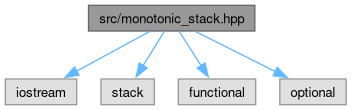
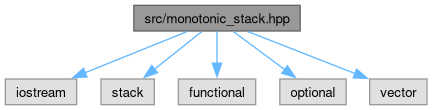
deploy: ecc5c27064b4ea4ee6e168c39b0f48cb65516475

Changed region(s): [[0.0, 0.2727, 1.0, 0.9818], [0.25, 0.0273, 0.75, 0.3], [0.625, 0.5455, 0.6875, 0.7091]]

diff --git a/monotonic__stack_8hpp_source.html b/monotonic__stack_8hpp_source.html
@@ -90,90 +90,100 @@ $(function() { codefold.init(0); });
 <div class="line"><a id="l00005" name="l00005"></a><span class="lineno">    5</span><span class="preprocessor">#include &lt;stack&gt;</span></div>
 <div class="line"><a id="l00006" name="l00006"></a><span class="lineno">    6</span><span class="preprocessor">#include &lt;functional&gt;</span></div>
 <div class="line"><a id="l00007" name="l00007"></a><span class="lineno">    7</span><span class="preprocessor">#include &lt;optional&gt;</span></div>
-<div class="line"><a id="l00008" name="l00008"></a><span class="lineno">    8</span> </div>
-<div class="line"><a id="l00009" name="l00009"></a><span class="lineno">    9</span><span class="keyword">namespace </span><a class="code hl_namespace" href="namespacehsc__snippets.html">hsc_snippets</a></div>
-<div class="line"><a id="l00010" name="l00010"></a><span class="lineno">   10</span>{</div>
-<div class="line"><a id="l00016" name="l00016"></a><span class="lineno">   16</span>    <span class="keyword">template</span> &lt;<span class="keyword">typename</span> T, <span class="keyword">typename</span> Comparator&gt;</div>
+<div class="line"><a id="l00008" name="l00008"></a><span class="lineno">    8</span><span class="preprocessor">#include &lt;vector&gt;</span></div>
+<div class="line"><a id="l00009" name="l00009"></a><span class="lineno">    9</span> </div>
+<div class="line"><a id="l00010" name="l00010"></a><span class="lineno">   10</span><span class="keyword">namespace </span><a class="code hl_namespace" href="namespacehsc__snippets.html">hsc_snippets</a> {</div>
+<div class="line"><a id="l00016" name="l00016"></a><span class="lineno">   16</span>    <span class="keyword">template</span>&lt;<span class="keyword">typename</span> T, <span class="keyword">typename</span> Comparator&gt;</div>
 <div class="foldopen" id="foldopen00017" data-start="{" data-end="};">
-<div class="line"><a id="l00017" name="l00017"></a><span class="lineno"><a class="line" href="classhsc__snippets_1_1MonotonicStack.html">   17</a></span>    <span class="keyword">class </span><a class="code hl_class" href="classhsc__snippets_1_1MonotonicStack.html">MonotonicStack</a></div>
-<div class="line"><a id="l00018" name="l00018"></a><span class="lineno">   18</span>    {</div>
-<div class="line"><a id="l00019" name="l00019"></a><span class="lineno">   19</span>    <span class="keyword">private</span>:</div>
-<div class="line"><a id="l00020" name="l00020"></a><span class="lineno">   20</span>        std::stack&lt;T&gt; s;</div>
-<div class="line"><a id="l00021" name="l00021"></a><span class="lineno">   21</span>        Comparator comp;</div>
-<div class="line"><a id="l00022" name="l00022"></a><span class="lineno">   22</span> </div>
-<div class="line"><a id="l00023" name="l00023"></a><span class="lineno">   23</span>    <span class="keyword">public</span>:</div>
-<div class="foldopen" id="foldopen00029" data-start="{" data-end="}">
-<div class="line"><a id="l00029" name="l00029"></a><span class="lineno"><a class="line" href="classhsc__snippets_1_1MonotonicStack.html#a1cfcd03d08115247a34c2f1aab9fa20f">   29</a></span>        std::optional&lt;T&gt; <a class="code hl_function" href="classhsc__snippets_1_1MonotonicStack.html#a1cfcd03d08115247a34c2f1aab9fa20f">push</a>(<span class="keyword">const</span> T &amp;value)</div>
-<div class="line"><a id="l00030" name="l00030"></a><span class="lineno">   30</span>        {</div>
-<div class="line"><a id="l00031" name="l00031"></a><span class="lineno">   31</span>            <span class="keywordflow">while</span> (!s.empty() &amp;&amp; comp(s.top(), value))</div>
-<div class="line"><a id="l00032" name="l00032"></a><span class="lineno">   32</span>            {</div>
-<div class="line"><a id="l00033" name="l00033"></a><span class="lineno">   33</span>                s.pop();</div>
-<div class="line"><a id="l00034" name="l00034"></a><span class="lineno">   34</span>            }</div>
-<div class="line"><a id="l00035" name="l00035"></a><span class="lineno">   35</span>            std::optional&lt;T&gt; ans;</div>
-<div class="line"><a id="l00036" name="l00036"></a><span class="lineno">   36</span>            <span class="keywordflow">if</span> (s.empty())</div>
-<div class="line"><a id="l00037" name="l00037"></a><span class="lineno">   37</span>            {</div>
-<div class="line"><a id="l00038" name="l00038"></a><span class="lineno">   38</span>                ans = {};</div>
-<div class="line"><a id="l00039" name="l00039"></a><span class="lineno">   39</span>            }</div>
-<div class="line"><a id="l00040" name="l00040"></a><span class="lineno">   40</span>            <span class="keywordflow">else</span></div>
-<div class="line"><a id="l00041" name="l00041"></a><span class="lineno">   41</span>            {</div>
-<div class="line"><a id="l00042" name="l00042"></a><span class="lineno">   42</span>                ans = s.top();</div>
-<div class="line"><a id="l00043" name="l00043"></a><span class="lineno">   43</span>            }</div>
-<div class="line"><a id="l00044" name="l00044"></a><span class="lineno">   44</span>            s.push(value);</div>
-<div class="line"><a id="l00045" name="l00045"></a><span class="lineno">   45</span>            <span class="keywordflow">return</span> ans;</div>
-<div class="line"><a id="l00046" name="l00046"></a><span class="lineno">   46</span>        }</div>
+<div class="line"><a id="l00017" name="l00017"></a><span class="lineno"><a class="line" href="classhsc__snippets_1_1MonotonicStack.html">   17</a></span>    <span class="keyword">class </span><a class="code hl_class" href="classhsc__snippets_1_1MonotonicStack.html">MonotonicStack</a> {</div>
+<div class="line"><a id="l00018" name="l00018"></a><span class="lineno">   18</span>    <span class="keyword">private</span>:</div>
+<div class="line"><a id="l00019" name="l00019"></a><span class="lineno">   19</span>        std::stack&lt;T&gt; s;</div>
+<div class="line"><a id="l00020" name="l00020"></a><span class="lineno">   20</span>        Comparator comp;</div>
+<div class="line"><a id="l00021" name="l00021"></a><span class="lineno">   21</span> </div>
+<div class="line"><a id="l00022" name="l00022"></a><span class="lineno">   22</span>    <span class="keyword">public</span>:</div>
+<div class="foldopen" id="foldopen00028" data-start="{" data-end="}">
+<div class="line"><a id="l00028" name="l00028"></a><span class="lineno"><a class="line" href="classhsc__snippets_1_1MonotonicStack.html#a1cfcd03d08115247a34c2f1aab9fa20f">   28</a></span>        std::optional&lt;T&gt; <a class="code hl_function" href="classhsc__snippets_1_1MonotonicStack.html#a1cfcd03d08115247a34c2f1aab9fa20f">push</a>(<span class="keyword">const</span> T &amp;value) {</div>
+<div class="line"><a id="l00029" name="l00029"></a><span class="lineno">   29</span>            <span class="keywordflow">while</span> (!s.empty() &amp;&amp; comp(s.top(), value)) {</div>
+<div class="line"><a id="l00030" name="l00030"></a><span class="lineno">   30</span>                s.pop();</div>
+<div class="line"><a id="l00031" name="l00031"></a><span class="lineno">   31</span>            }</div>
+<div class="line"><a id="l00032" name="l00032"></a><span class="lineno">   32</span>            std::optional&lt;T&gt; ans;</div>
+<div class="line"><a id="l00033" name="l00033"></a><span class="lineno">   33</span>            <span class="keywordflow">if</span> (s.empty()) {</div>
+<div class="line"><a id="l00034" name="l00034"></a><span class="lineno">   34</span>                ans = {};</div>
+<div class="line"><a id="l00035" name="l00035"></a><span class="lineno">   35</span>            } <span class="keywordflow">else</span> {</div>
+<div class="line"><a id="l00036" name="l00036"></a><span class="lineno">   36</span>                ans = s.top();</div>
+<div class="line"><a id="l00037" name="l00037"></a><span class="lineno">   37</span>            }</div>
+<div class="line"><a id="l00038" name="l00038"></a><span class="lineno">   38</span>            s.push(value);</div>
+<div class="line"><a id="l00039" name="l00039"></a><span class="lineno">   39</span>            <span class="keywordflow">return</span> ans;</div>
+<div class="line"><a id="l00040" name="l00040"></a><span class="lineno">   40</span>        }</div>
 </div>
-<div class="foldopen" id="foldopen00051" data-start="{" data-end="}">
-<div class="line"><a id="l00051" name="l00051"></a><span class="lineno"><a class="line" href="classhsc__snippets_1_1MonotonicStack.html#a89a08fe8021d1c07f545efa956e411a8">   51</a></span>        <span class="keyword">const</span> T &amp;<a class="code hl_function" href="classhsc__snippets_1_1MonotonicStack.html#a89a08fe8021d1c07f545efa956e411a8">top</a>()<span class="keyword"> const</span></div>
-<div class="line"><a id="l00052" name="l00052"></a><span class="lineno">   52</span><span class="keyword">        </span>{</div>
-<div class="line"><a id="l00053" name="l00053"></a><span class="lineno">   53</span>            <span class="keywordflow">return</span> s.top();</div>
-<div class="line"><a id="l00054" name="l00054"></a><span class="lineno">   54</span>        }</div>
+<div class="line"><a id="l00041" name="l00041"></a><span class="lineno">   41</span> </div>
+<div class="foldopen" id="foldopen00046" data-start="{" data-end="}">
+<div class="line"><a id="l00046" name="l00046"></a><span class="lineno"><a class="line" href="classhsc__snippets_1_1MonotonicStack.html#a89a08fe8021d1c07f545efa956e411a8">   46</a></span>        <span class="keyword">const</span> T &amp;<a class="code hl_function" href="classhsc__snippets_1_1MonotonicStack.html#a89a08fe8021d1c07f545efa956e411a8">top</a>()<span class="keyword"> const </span>{</div>
+<div class="line"><a id="l00047" name="l00047"></a><span class="lineno">   47</span>            <span class="keywordflow">return</span> s.top();</div>
+<div class="line"><a id="l00048" name="l00048"></a><span class="lineno">   48</span>        }</div>
 </div>
-<div class="foldopen" id="foldopen00059" data-start="{" data-end="}">
-<div class="line"><a id="l00059" name="l00059"></a><span class="lineno"><a class="line" href="classhsc__snippets_1_1MonotonicStack.html#a286b87ba4ef3864f3f0840233b8dbaf3">   59</a></span>        <span class="keywordtype">bool</span> <a class="code hl_function" href="classhsc__snippets_1_1MonotonicStack.html#a286b87ba4ef3864f3f0840233b8dbaf3">empty</a>()<span class="keyword"> const</span></div>
-<div class="line"><a id="l00060" name="l00060"></a><span class="lineno">   60</span><span class="keyword">        </span>{</div>
-<div class="line"><a id="l00061" name="l00061"></a><span class="lineno">   61</span>            <span class="keywordflow">return</span> s.empty();</div>
-<div class="line"><a id="l00062" name="l00062"></a><span class="lineno">   62</span>        }</div>
+<div class="line"><a id="l00049" name="l00049"></a><span class="lineno">   49</span> </div>
+<div class="foldopen" id="foldopen00054" data-start="{" data-end="}">
+<div class="line"><a id="l00054" name="l00054"></a><span class="lineno"><a class="line" href="classhsc__snippets_1_1MonotonicStack.html#a286b87ba4ef3864f3f0840233b8dbaf3">   54</a></span>        <span class="keywordtype">bool</span> <a class="code hl_function" href="classhsc__snippets_1_1MonotonicStack.html#a286b87ba4ef3864f3f0840233b8dbaf3">empty</a>()<span class="keyword"> const </span>{</div>
+<div class="line"><a id="l00055" name="l00055"></a><span class="lineno">   55</span>            <span class="keywordflow">return</span> s.empty();</div>
+<div class="line"><a id="l00056" name="l00056"></a><span class="lineno">   56</span>        }</div>
 </div>
-<div class="line"><a id="l00063" name="l00063"></a><span class="lineno">   63</span>    };</div>
+<div class="line"><a id="l00057" name="l00057"></a><span class="lineno">   57</span>    };</div>
 </div>
-<div class="line"><a id="l00064" name="l00064"></a><span class="lineno">   64</span> </div>
-<div class="line"><a id="l00065" name="l00065"></a><span class="lineno">   65</span>    <span class="keyword">template</span> &lt;<span class="keyword">typename</span> T&gt;</div>
-<div class="line"><a id="l00066" name="l00066"></a><span class="lineno"><a class="line" href="namespacehsc__snippets.html#a9cbfd0b02206d45ef53cae53da08bde1">   66</a></span>    <span class="keyword">using </span><a class="code hl_class" href="classhsc__snippets_1_1MonotonicStack.html">MonotonicDecreasingStack</a> = <a class="code hl_class" href="classhsc__snippets_1_1MonotonicStack.html">MonotonicStack&lt;T, std::less_equal&lt;T&gt;</a>&gt;;</div>
-<div class="line"><a id="l00067" name="l00067"></a><span class="lineno">   67</span>    <span class="keyword">template</span> &lt;<span class="keyword">typename</span> T&gt;</div>
-<div class="line"><a id="l00068" name="l00068"></a><span class="lineno"><a class="line" href="namespacehsc__snippets.html#aa38155ad9e921ee6d3cf69b328f69757">   68</a></span>    <span class="keyword">using </span><a class="code hl_class" href="classhsc__snippets_1_1MonotonicStack.html">MonotonicIncreasingStack</a> = <a class="code hl_class" href="classhsc__snippets_1_1MonotonicStack.html">MonotonicStack&lt;T, std::greater_equal&lt;T&gt;</a>&gt;;</div>
-<div class="line"><a id="l00076" name="l00076"></a><span class="lineno">   76</span>    <span class="keyword">template</span> &lt;<span class="keyword">typename</span> T&gt;</div>
-<div class="foldopen" id="foldopen00077" data-start="{" data-end="}">
-<div class="line"><a id="l00077" name="l00077"></a><span class="lineno"><a class="line" href="namespacehsc__snippets.html#a58ccbeb569860677c784f504351db1d8">   77</a></span>    std::vector&lt;T&gt; <a class="code hl_function" href="namespacehsc__snippets.html#a58ccbeb569860677c784f504351db1d8">nextGreaterElement</a>(<span class="keyword">const</span> std::vector&lt;T&gt; &amp;nums, std::function&lt;T()&gt; no_greater)</div>
-<div class="line"><a id="l00078" name="l00078"></a><span class="lineno">   78</span>    {</div>
-<div class="line"><a id="l00079" name="l00079"></a><span class="lineno">   79</span>        std::vector&lt;T&gt; result{};</div>
-<div class="line"><a id="l00080" name="l00080"></a><span class="lineno">   80</span>        result.reserve(nums.size());</div>
-<div class="line"><a id="l00081" name="l00081"></a><span class="lineno">   81</span>        <a class="code hl_class" href="classhsc__snippets_1_1MonotonicStack.html">MonotonicDecreasingStack&lt;T&gt;</a> decreasingStack;</div>
-<div class="line"><a id="l00082" name="l00082"></a><span class="lineno">   82</span>        <span class="keywordflow">for</span> (<span class="keyword">auto</span> num : nums)</div>
-<div class="line"><a id="l00083" name="l00083"></a><span class="lineno">   83</span>        {</div>
-<div class="line"><a id="l00084" name="l00084"></a><span class="lineno">   84</span>            <span class="keyword">auto</span> tmp = decreasingStack.<a class="code hl_function" href="classhsc__snippets_1_1MonotonicStack.html#a1cfcd03d08115247a34c2f1aab9fa20f">push</a>(num);</div>
-<div class="line"><a id="l00085" name="l00085"></a><span class="lineno">   85</span>            <span class="keywordflow">if</span> (!tmp.has_value())</div>
-<div class="line"><a id="l00086" name="l00086"></a><span class="lineno">   86</span>            {</div>
-<div class="line"><a id="l00087" name="l00087"></a><span class="lineno">   87</span>                result.push_back(no_greater());</div>
-<div class="line"><a id="l00088" name="l00088"></a><span class="lineno">   88</span>            }</div>
-<div class="line"><a id="l00089" name="l00089"></a><span class="lineno">   89</span>            <span class="keywordflow">else</span></div>
-<div class="line"><a id="l00090" name="l00090"></a><span class="lineno">   90</span>            {</div>
-<div class="line"><a id="l00091" name="l00091"></a><span class="lineno">   91</span>                result.push_back(tmp.value());</div>
-<div class="line"><a id="l00092" name="l00092"></a><span class="lineno">   92</span>            }</div>
-<div class="line"><a id="l00093" name="l00093"></a><span class="lineno">   93</span>        }</div>
-<div class="line"><a id="l00094" name="l00094"></a><span class="lineno">   94</span> </div>
-<div class="line"><a id="l00095" name="l00095"></a><span class="lineno">   95</span>        <span class="keywordflow">return</span> result;</div>
-<div class="line"><a id="l00096" name="l00096"></a><span class="lineno">   96</span>    }</div>
+<div class="line"><a id="l00058" name="l00058"></a><span class="lineno">   58</span> </div>
+<div class="line"><a id="l00059" name="l00059"></a><span class="lineno">   59</span>    <span class="keyword">template</span>&lt;<span class="keyword">typename</span> T&gt;</div>
+<div class="line"><a id="l00060" name="l00060"></a><span class="lineno"><a class="line" href="namespacehsc__snippets.html#a9cbfd0b02206d45ef53cae53da08bde1">   60</a></span>    <span class="keyword">using </span><a class="code hl_class" href="classhsc__snippets_1_1MonotonicStack.html">MonotonicDecreasingStack</a> = <a class="code hl_class" href="classhsc__snippets_1_1MonotonicStack.html">MonotonicStack&lt;T, std::less_equal&lt;T&gt;</a>&gt;;</div>
+<div class="line"><a id="l00061" name="l00061"></a><span class="lineno">   61</span>    <span class="keyword">template</span>&lt;<span class="keyword">typename</span> T&gt;</div>
+<div class="line"><a id="l00062" name="l00062"></a><span class="lineno"><a class="line" href="namespacehsc__snippets.html#aa38155ad9e921ee6d3cf69b328f69757">   62</a></span>    <span class="keyword">using </span><a class="code hl_class" href="classhsc__snippets_1_1MonotonicStack.html">MonotonicIncreasingStack</a> = <a class="code hl_class" href="classhsc__snippets_1_1MonotonicStack.html">MonotonicStack&lt;T, std::greater_equal&lt;T&gt;</a>&gt;;</div>
+<div class="line"><a id="l00063" name="l00063"></a><span class="lineno">   63</span> </div>
+<div class="line"><a id="l00071" name="l00071"></a><span class="lineno">   71</span>    <span class="keyword">template</span>&lt;<span class="keyword">typename</span> T&gt;</div>
+<div class="foldopen" id="foldopen00072" data-start="{" data-end="}">
+<div class="line"><a id="l00072" name="l00072"></a><span class="lineno"><a class="line" href="namespacehsc__snippets.html#a58ccbeb569860677c784f504351db1d8">   72</a></span>    std::vector&lt;T&gt; <a class="code hl_function" href="namespacehsc__snippets.html#a58ccbeb569860677c784f504351db1d8">nextGreaterElement</a>(<span class="keyword">const</span> std::vector&lt;T&gt; &amp;nums, std::function&lt;T()&gt; no_greater) {</div>
+<div class="line"><a id="l00073" name="l00073"></a><span class="lineno">   73</span>        std::vector&lt;T&gt; result{};</div>
+<div class="line"><a id="l00074" name="l00074"></a><span class="lineno">   74</span>        result.reserve(nums.size());</div>
+<div class="line"><a id="l00075" name="l00075"></a><span class="lineno">   75</span>        <a class="code hl_class" href="classhsc__snippets_1_1MonotonicStack.html">MonotonicDecreasingStack&lt;T&gt;</a> decreasingStack;</div>
+<div class="line"><a id="l00076" name="l00076"></a><span class="lineno">   76</span>        <span class="keywordflow">for</span> (<span class="keyword">auto</span> num: nums) {</div>
+<div class="line"><a id="l00077" name="l00077"></a><span class="lineno">   77</span>            <span class="keyword">auto</span> tmp = decreasingStack.<a class="code hl_function" href="classhsc__snippets_1_1MonotonicStack.html#a1cfcd03d08115247a34c2f1aab9fa20f">push</a>(num);</div>
+<div class="line"><a id="l00078" name="l00078"></a><span class="lineno">   78</span>            <span class="keywordflow">if</span> (!tmp.has_value()) {</div>
+<div class="line"><a id="l00079" name="l00079"></a><span class="lineno">   79</span>                result.push_back(no_greater());</div>
+<div class="line"><a id="l00080" name="l00080"></a><span class="lineno">   80</span>            } <span class="keywordflow">else</span> {</div>
+<div class="line"><a id="l00081" name="l00081"></a><span class="lineno">   81</span>                result.push_back(tmp.value());</div>
+<div class="line"><a id="l00082" name="l00082"></a><span class="lineno">   82</span>            }</div>
+<div class="line"><a id="l00083" name="l00083"></a><span class="lineno">   83</span>        }</div>
+<div class="line"><a id="l00084" name="l00084"></a><span class="lineno">   84</span> </div>
+<div class="line"><a id="l00085" name="l00085"></a><span class="lineno">   85</span>        <span class="keywordflow">return</span> result;</div>
+<div class="line"><a id="l00086" name="l00086"></a><span class="lineno">   86</span>    }</div>
 </div>
-<div class="line"><a id="l00097" name="l00097"></a><span class="lineno">   97</span> </div>
-<div class="line"><a id="l00098" name="l00098"></a><span class="lineno">   98</span>}</div>
-<div class="line"><a id="l00099" name="l00099"></a><span class="lineno">   99</span> </div>
-<div class="line"><a id="l00100" name="l00100"></a><span class="lineno">  100</span><span class="preprocessor">#endif </span><span class="comment">// MONOTONIC_STACK_H</span></div>
-<div class="ttc" id="aclasshsc__snippets_1_1MonotonicStack_html"><div class="ttname"><a href="classhsc__snippets_1_1MonotonicStack.html">hsc_snippets::MonotonicStack</a></div><div class="ttdef"><b>Definition</b> monotonic_stack.hpp:18</div></div>
-<div class="ttc" id="aclasshsc__snippets_1_1MonotonicStack_html_a1cfcd03d08115247a34c2f1aab9fa20f"><div class="ttname"><a href="classhsc__snippets_1_1MonotonicStack.html#a1cfcd03d08115247a34c2f1aab9fa20f">hsc_snippets::MonotonicStack::push</a></div><div class="ttdeci">std::optional&lt; T &gt; push(const T &amp;value)</div><div class="ttdef"><b>Definition</b> monotonic_stack.hpp:29</div></div>
-<div class="ttc" id="aclasshsc__snippets_1_1MonotonicStack_html_a286b87ba4ef3864f3f0840233b8dbaf3"><div class="ttname"><a href="classhsc__snippets_1_1MonotonicStack.html#a286b87ba4ef3864f3f0840233b8dbaf3">hsc_snippets::MonotonicStack::empty</a></div><div class="ttdeci">bool empty() const</div><div class="ttdef"><b>Definition</b> monotonic_stack.hpp:59</div></div>
-<div class="ttc" id="aclasshsc__snippets_1_1MonotonicStack_html_a89a08fe8021d1c07f545efa956e411a8"><div class="ttname"><a href="classhsc__snippets_1_1MonotonicStack.html#a89a08fe8021d1c07f545efa956e411a8">hsc_snippets::MonotonicStack::top</a></div><div class="ttdeci">const T &amp; top() const</div><div class="ttdef"><b>Definition</b> monotonic_stack.hpp:51</div></div>
+<div class="line"><a id="l00087" name="l00087"></a><span class="lineno">   87</span> </div>
+<div class="line"><a id="l00088" name="l00088"></a><span class="lineno">   88</span> </div>
+<div class="foldopen" id="foldopen00097" data-start="{" data-end="}">
+<div class="line"><a id="l00097" name="l00097"></a><span class="lineno"><a class="line" href="namespacehsc__snippets.html#ac9bc199445ac13f4653bf795c24cdf08">   97</a></span>    <span class="keywordtype">int</span> <a class="code hl_function" href="namespacehsc__snippets.html#ac9bc199445ac13f4653bf795c24cdf08">largestRectangleInHistogram</a>(<span class="keyword">const</span> std::vector&lt;int&gt; &amp;heights) {</div>
+<div class="line"><a id="l00098" name="l00098"></a><span class="lineno">   98</span>        std::stack&lt;int&gt; s;</div>
+<div class="line"><a id="l00099" name="l00099"></a><span class="lineno">   99</span>        <span class="keywordtype">int</span> maxArea = 0;</div>
+<div class="line"><a id="l00100" name="l00100"></a><span class="lineno">  100</span>        <span class="keywordtype">int</span> n = <span class="keyword">static_cast&lt;</span><span class="keywordtype">int</span><span class="keyword">&gt;</span>(heights.size());</div>
+<div class="line"><a id="l00101" name="l00101"></a><span class="lineno">  101</span>        <span class="keywordflow">for</span> (<span class="keywordtype">int</span> i = 0; i &lt;= n; i++) {</div>
+<div class="line"><a id="l00102" name="l00102"></a><span class="lineno">  102</span>            <span class="keywordtype">int</span> h = (i == n ? 0 : heights[i]); <span class="comment">// Add a bar of height 0 to flush the stack at the end.</span></div>
+<div class="line"><a id="l00103" name="l00103"></a><span class="lineno">  103</span>            <span class="keywordflow">while</span> (!s.empty() &amp;&amp; h &lt; heights[s.top()]) {</div>
+<div class="line"><a id="l00104" name="l00104"></a><span class="lineno">  104</span>                <span class="keywordtype">int</span> height = heights[s.top()];</div>
+<div class="line"><a id="l00105" name="l00105"></a><span class="lineno">  105</span>                s.pop();</div>
+<div class="line"><a id="l00106" name="l00106"></a><span class="lineno">  106</span>                <span class="keywordtype">int</span> width = s.empty() ? i : i - s.top() - 1; <span class="comment">// Calculate width using the stack&#39;s new top.</span></div>
+<div class="line"><a id="l00107" name="l00107"></a><span class="lineno">  107</span>                maxArea = std::max(maxArea, height * width);</div>
+<div class="line"><a id="l00108" name="l00108"></a><span class="lineno">  108</span>            }</div>
+<div class="line"><a id="l00109" name="l00109"></a><span class="lineno">  109</span>            s.push(i); <span class="comment">// Push the current index onto the stack.</span></div>
+<div class="line"><a id="l00110" name="l00110"></a><span class="lineno">  110</span>        }</div>
+<div class="line"><a id="l00111" name="l00111"></a><span class="lineno">  111</span>        <span class="keywordflow">return</span> maxArea;</div>
+<div class="line"><a id="l00112" name="l00112"></a><span class="lineno">  112</span>    }</div>
+</div>
+<div class="line"><a id="l00113" name="l00113"></a><span class="lineno">  113</span>}</div>
+<div class="line"><a id="l00114" name="l00114"></a><span class="lineno">  114</span> </div>
+<div class="line"><a id="l00115" name="l00115"></a><span class="lineno">  115</span><span class="preprocessor">#endif </span><span class="comment">// MONOTONIC_STACK_H</span></div>
+<div class="ttc" id="aclasshsc__snippets_1_1MonotonicStack_html"><div class="ttname"><a href="classhsc__snippets_1_1MonotonicStack.html">hsc_snippets::MonotonicStack</a></div><div class="ttdef"><b>Definition</b> monotonic_stack.hpp:17</div></div>
+<div class="ttc" id="aclasshsc__snippets_1_1MonotonicStack_html_a1cfcd03d08115247a34c2f1aab9fa20f"><div class="ttname"><a href="classhsc__snippets_1_1MonotonicStack.html#a1cfcd03d08115247a34c2f1aab9fa20f">hsc_snippets::MonotonicStack::push</a></div><div class="ttdeci">std::optional&lt; T &gt; push(const T &amp;value)</div><div class="ttdef"><b>Definition</b> monotonic_stack.hpp:28</div></div>
+<div class="ttc" id="aclasshsc__snippets_1_1MonotonicStack_html_a286b87ba4ef3864f3f0840233b8dbaf3"><div class="ttname"><a href="classhsc__snippets_1_1MonotonicStack.html#a286b87ba4ef3864f3f0840233b8dbaf3">hsc_snippets::MonotonicStack::empty</a></div><div class="ttdeci">bool empty() const</div><div class="ttdef"><b>Definition</b> monotonic_stack.hpp:54</div></div>
+<div class="ttc" id="aclasshsc__snippets_1_1MonotonicStack_html_a89a08fe8021d1c07f545efa956e411a8"><div class="ttname"><a href="classhsc__snippets_1_1MonotonicStack.html#a89a08fe8021d1c07f545efa956e411a8">hsc_snippets::MonotonicStack::top</a></div><div class="ttdeci">const T &amp; top() const</div><div class="ttdef"><b>Definition</b> monotonic_stack.hpp:46</div></div>
 <div class="ttc" id="anamespacehsc__snippets_html"><div class="ttname"><a href="namespacehsc__snippets.html">hsc_snippets</a></div><div class="ttdef"><b>Definition</b> big_integer.hpp:13</div></div>
-<div class="ttc" id="anamespacehsc__snippets_html_a58ccbeb569860677c784f504351db1d8"><div class="ttname"><a href="namespacehsc__snippets.html#a58ccbeb569860677c784f504351db1d8">hsc_snippets::nextGreaterElement</a></div><div class="ttdeci">std::vector&lt; T &gt; nextGreaterElement(const std::vector&lt; T &gt; &amp;nums, std::function&lt; T()&gt; no_greater)</div><div class="ttdef"><b>Definition</b> monotonic_stack.hpp:77</div></div>
+<div class="ttc" id="anamespacehsc__snippets_html_a58ccbeb569860677c784f504351db1d8"><div class="ttname"><a href="namespacehsc__snippets.html#a58ccbeb569860677c784f504351db1d8">hsc_snippets::nextGreaterElement</a></div><div class="ttdeci">std::vector&lt; T &gt; nextGreaterElement(const std::vector&lt; T &gt; &amp;nums, std::function&lt; T()&gt; no_greater)</div><div class="ttdef"><b>Definition</b> monotonic_stack.hpp:72</div></div>
+<div class="ttc" id="anamespacehsc__snippets_html_ac9bc199445ac13f4653bf795c24cdf08"><div class="ttname"><a href="namespacehsc__snippets.html#ac9bc199445ac13f4653bf795c24cdf08">hsc_snippets::largestRectangleInHistogram</a></div><div class="ttdeci">int largestRectangleInHistogram(const std::vector&lt; int &gt; &amp;heights)</div><div class="ttdef"><b>Definition</b> monotonic_stack.hpp:97</div></div>
 </div><!-- fragment --></div><!-- contents -->
 <!-- start footer part -->
 <hr class="footer"/><address class="footer"><small>

diff --git a/search/all_a.js b/search/all_a.js
@@ -1,14 +1,15 @@
 var searchData=
 [
-  ['lcm_0',['lcm',['../classhsc__snippets_1_1BigInteger.html#a109b2f5a7752dda542e4bafeae5bccc9',1,'hsc_snippets::BigInteger::lcm()'],['../namespacehsc__snippets.html#a9d31a87aa5ed5297257e6daea49a4c72',1,'hsc_snippets::lcm()']]],
-  ['left_1',['left',['../structhsc__snippets_1_1TreeNode.html#acdb529b61bbbcb52bb149f7f9bcb5da4',1,'hsc_snippets::TreeNode::left'],['../structhsc__snippets_1_1Interval.html#a753dd2ac1be65c32ed493490eeff91e3',1,'hsc_snippets::Interval::left']]],
-  ['lessthanall_2',['lessThanAll',['../namespacehsc__snippets.html#ac6691641b2d50eca1b2145da55c74f1d',1,'hsc_snippets::lessThanAll(T x, T val)'],['../namespacehsc__snippets.html#ae5c0498b1070c4404daaaf087992758b',1,'hsc_snippets::lessThanAll(T x, T val, Args... args)']]],
-  ['lessthanorequaltoall_3',['lessThanOrEqualToAll',['../namespacehsc__snippets.html#a8f9c656f40560cd6141ff708c5937b89',1,'hsc_snippets::lessThanOrEqualToAll(T x, T val)'],['../namespacehsc__snippets.html#a0e874c9c2bfef67800a520d9ccf60805',1,'hsc_snippets::lessThanOrEqualToAll(T x, T val, Args... args)']]],
-  ['linked_5flist_2ehpp_4',['linked_list.hpp',['../linked__list_8hpp.html',1,'']]],
-  ['linked_5flist_5fdelete_5',['linked_list_delete',['../namespacehsc__snippets.html#ad242c8792daef6564483babc4db2e7ca',1,'hsc_snippets']]],
-  ['linked_5flist_5fremove_6',['linked_list_remove',['../namespacehsc__snippets.html#a40cb53700e41ce0806b784d51afe7aaa',1,'hsc_snippets']]],
-  ['linked_5flist_5fto_5fvector_7',['linked_list_to_vector',['../namespacehsc__snippets.html#a753a3ebbdd118444fed6c922d57de01f',1,'hsc_snippets']]],
-  ['listnode_8',['ListNode',['../structhsc__snippets_1_1ListNode.html',1,'hsc_snippets::ListNode'],['../structhsc__snippets_1_1ListNode.html#af6bfb652222588e68f1c1933b0005474',1,'hsc_snippets::ListNode::ListNode()'],['../structhsc__snippets_1_1ListNode.html#aca641c85ed0c371d263a0d0422350cd2',1,'hsc_snippets::ListNode::ListNode(int x)'],['../structhsc__snippets_1_1ListNode.html#a43b04c2eec5cb1b1f49b8a38861a56b9',1,'hsc_snippets::ListNode::ListNode(int x, ListNode *next)']]],
-  ['log10_9',['log10',['../classhsc__snippets_1_1BigInteger.html#aa202c7a0c71768e8951c57174c9f0289',1,'hsc_snippets::BigInteger']]],
-  ['log2_10',['log2',['../classhsc__snippets_1_1BigInteger.html#a90235a0cca66eec26423b00fba63a67b',1,'hsc_snippets::BigInteger']]]
+  ['largestrectangleinhistogram_0',['largestRectangleInHistogram',['../namespacehsc__snippets.html#ac9bc199445ac13f4653bf795c24cdf08',1,'hsc_snippets']]],
+  ['lcm_1',['lcm',['../classhsc__snippets_1_1BigInteger.html#a109b2f5a7752dda542e4bafeae5bccc9',1,'hsc_snippets::BigInteger::lcm()'],['../namespacehsc__snippets.html#a9d31a87aa5ed5297257e6daea49a4c72',1,'hsc_snippets::lcm()']]],
+  ['left_2',['left',['../structhsc__snippets_1_1TreeNode.html#acdb529b61bbbcb52bb149f7f9bcb5da4',1,'hsc_snippets::TreeNode::left'],['../structhsc__snippets_1_1Interval.html#a753dd2ac1be65c32ed493490eeff91e3',1,'hsc_snippets::Interval::left']]],
+  ['lessthanall_3',['lessThanAll',['../namespacehsc__snippets.html#ac6691641b2d50eca1b2145da55c74f1d',1,'hsc_snippets::lessThanAll(T x, T val)'],['../namespacehsc__snippets.html#ae5c0498b1070c4404daaaf087992758b',1,'hsc_snippets::lessThanAll(T x, T val, Args... args)']]],
+  ['lessthanorequaltoall_4',['lessThanOrEqualToAll',['../namespacehsc__snippets.html#a8f9c656f40560cd6141ff708c5937b89',1,'hsc_snippets::lessThanOrEqualToAll(T x, T val)'],['../namespacehsc__snippets.html#a0e874c9c2bfef67800a520d9ccf60805',1,'hsc_snippets::lessThanOrEqualToAll(T x, T val, Args... args)']]],
+  ['linked_5flist_2ehpp_5',['linked_list.hpp',['../linked__list_8hpp.html',1,'']]],
+  ['linked_5flist_5fdelete_6',['linked_list_delete',['../namespacehsc__snippets.html#ad242c8792daef6564483babc4db2e7ca',1,'hsc_snippets']]],
+  ['linked_5flist_5fremove_7',['linked_list_remove',['../namespacehsc__snippets.html#a40cb53700e41ce0806b784d51afe7aaa',1,'hsc_snippets']]],
+  ['linked_5flist_5fto_5fvector_8',['linked_list_to_vector',['../namespacehsc__snippets.html#a753a3ebbdd118444fed6c922d57de01f',1,'hsc_snippets']]],
+  ['listnode_9',['ListNode',['../structhsc__snippets_1_1ListNode.html',1,'hsc_snippets::ListNode'],['../structhsc__snippets_1_1ListNode.html#af6bfb652222588e68f1c1933b0005474',1,'hsc_snippets::ListNode::ListNode()'],['../structhsc__snippets_1_1ListNode.html#aca641c85ed0c371d263a0d0422350cd2',1,'hsc_snippets::ListNode::ListNode(int x)'],['../structhsc__snippets_1_1ListNode.html#a43b04c2eec5cb1b1f49b8a38861a56b9',1,'hsc_snippets::ListNode::ListNode(int x, ListNode *next)']]],
+  ['log10_10',['log10',['../classhsc__snippets_1_1BigInteger.html#aa202c7a0c71768e8951c57174c9f0289',1,'hsc_snippets::BigInteger']]],
+  ['log2_11',['log2',['../classhsc__snippets_1_1BigInteger.html#a90235a0cca66eec26423b00fba63a67b',1,'hsc_snippets::BigInteger']]]
 ];

diff --git a/search/functions_9.js b/search/functions_9.js
@@ -1,12 +1,13 @@
 var searchData=
 [
-  ['lcm_0',['lcm',['../classhsc__snippets_1_1BigInteger.html#a109b2f5a7752dda542e4bafeae5bccc9',1,'hsc_snippets::BigInteger::lcm()'],['../namespacehsc__snippets.html#a9d31a87aa5ed5297257e6daea49a4c72',1,'hsc_snippets::lcm(T a, T b)']]],
-  ['lessthanall_1',['lessThanAll',['../namespacehsc__snippets.html#ac6691641b2d50eca1b2145da55c74f1d',1,'hsc_snippets::lessThanAll(T x, T val)'],['../namespacehsc__snippets.html#ae5c0498b1070c4404daaaf087992758b',1,'hsc_snippets::lessThanAll(T x, T val, Args... args)']]],
-  ['lessthanorequaltoall_2',['lessThanOrEqualToAll',['../namespacehsc__snippets.html#a8f9c656f40560cd6141ff708c5937b89',1,'hsc_snippets::lessThanOrEqualToAll(T x, T val)'],['../namespacehsc__snippets.html#a0e874c9c2bfef67800a520d9ccf60805',1,'hsc_snippets::lessThanOrEqualToAll(T x, T val, Args... args)']]],
-  ['linked_5flist_5fdelete_3',['linked_list_delete',['../namespacehsc__snippets.html#ad242c8792daef6564483babc4db2e7ca',1,'hsc_snippets']]],
-  ['linked_5flist_5fremove_4',['linked_list_remove',['../namespacehsc__snippets.html#a40cb53700e41ce0806b784d51afe7aaa',1,'hsc_snippets']]],
-  ['linked_5flist_5fto_5fvector_5',['linked_list_to_vector',['../namespacehsc__snippets.html#a753a3ebbdd118444fed6c922d57de01f',1,'hsc_snippets']]],
-  ['listnode_6',['ListNode',['../structhsc__snippets_1_1ListNode.html#af6bfb652222588e68f1c1933b0005474',1,'hsc_snippets::ListNode::ListNode()'],['../structhsc__snippets_1_1ListNode.html#aca641c85ed0c371d263a0d0422350cd2',1,'hsc_snippets::ListNode::ListNode(int x)'],['../structhsc__snippets_1_1ListNode.html#a43b04c2eec5cb1b1f49b8a38861a56b9',1,'hsc_snippets::ListNode::ListNode(int x, ListNode *next)']]],
-  ['log10_7',['log10',['../classhsc__snippets_1_1BigInteger.html#aa202c7a0c71768e8951c57174c9f0289',1,'hsc_snippets::BigInteger']]],
-  ['log2_8',['log2',['../classhsc__snippets_1_1BigInteger.html#a90235a0cca66eec26423b00fba63a67b',1,'hsc_snippets::BigInteger']]]
+  ['largestrectangleinhistogram_0',['largestRectangleInHistogram',['../namespacehsc__snippets.html#ac9bc199445ac13f4653bf795c24cdf08',1,'hsc_snippets']]],
+  ['lcm_1',['lcm',['../classhsc__snippets_1_1BigInteger.html#a109b2f5a7752dda542e4bafeae5bccc9',1,'hsc_snippets::BigInteger::lcm()'],['../namespacehsc__snippets.html#a9d31a87aa5ed5297257e6daea49a4c72',1,'hsc_snippets::lcm(T a, T b)']]],
+  ['lessthanall_2',['lessThanAll',['../namespacehsc__snippets.html#ac6691641b2d50eca1b2145da55c74f1d',1,'hsc_snippets::lessThanAll(T x, T val)'],['../namespacehsc__snippets.html#ae5c0498b1070c4404daaaf087992758b',1,'hsc_snippets::lessThanAll(T x, T val, Args... args)']]],
+  ['lessthanorequaltoall_3',['lessThanOrEqualToAll',['../namespacehsc__snippets.html#a8f9c656f40560cd6141ff708c5937b89',1,'hsc_snippets::lessThanOrEqualToAll(T x, T val)'],['../namespacehsc__snippets.html#a0e874c9c2bfef67800a520d9ccf60805',1,'hsc_snippets::lessThanOrEqualToAll(T x, T val, Args... args)']]],
+  ['linked_5flist_5fdelete_4',['linked_list_delete',['../namespacehsc__snippets.html#ad242c8792daef6564483babc4db2e7ca',1,'hsc_snippets']]],
+  ['linked_5flist_5fremove_5',['linked_list_remove',['../namespacehsc__snippets.html#a40cb53700e41ce0806b784d51afe7aaa',1,'hsc_snippets']]],
+  ['linked_5flist_5fto_5fvector_6',['linked_list_to_vector',['../namespacehsc__snippets.html#a753a3ebbdd118444fed6c922d57de01f',1,'hsc_snippets']]],
+  ['listnode_7',['ListNode',['../structhsc__snippets_1_1ListNode.html#af6bfb652222588e68f1c1933b0005474',1,'hsc_snippets::ListNode::ListNode()'],['../structhsc__snippets_1_1ListNode.html#aca641c85ed0c371d263a0d0422350cd2',1,'hsc_snippets::ListNode::ListNode(int x)'],['../structhsc__snippets_1_1ListNode.html#a43b04c2eec5cb1b1f49b8a38861a56b9',1,'hsc_snippets::ListNode::ListNode(int x, ListNode *next)']]],
+  ['log10_8',['log10',['../classhsc__snippets_1_1BigInteger.html#aa202c7a0c71768e8951c57174c9f0289',1,'hsc_snippets::BigInteger']]],
+  ['log2_9',['log2',['../classhsc__snippets_1_1BigInteger.html#a90235a0cca66eec26423b00fba63a67b',1,'hsc_snippets::BigInteger']]]
 ];

diff --git a/namespacehsc__snippets.html b/namespacehsc__snippets.html
@@ -197,6 +197,8 @@ Functions</h2></td></tr>
 <tr class="memitem:a58ccbeb569860677c784f504351db1d8" id="r_a58ccbeb569860677c784f504351db1d8"><td class="memTemplParams" colspan="2">template&lt;typename T &gt; </td></tr>
 <tr class="memitem:a58ccbeb569860677c784f504351db1d8"><td class="memTemplItemLeft" align="right" valign="top">std::vector&lt; T &gt;&#160;</td><td class="memTemplItemRight" valign="bottom"><a class="el" href="#a58ccbeb569860677c784f504351db1d8">nextGreaterElement</a> (const std::vector&lt; T &gt; &amp;nums, std::function&lt; T()&gt; no_greater)</td></tr>
 <tr class="separator:a58ccbeb569860677c784f504351db1d8"><td class="memSeparator" colspan="2">&#160;</td></tr>
+<tr class="memitem:ac9bc199445ac13f4653bf795c24cdf08" id="r_ac9bc199445ac13f4653bf795c24cdf08"><td class="memItemLeft" align="right" valign="top">int&#160;</td><td class="memItemRight" valign="bottom"><a class="el" href="#ac9bc199445ac13f4653bf795c24cdf08">largestRectangleInHistogram</a> (const std::vector&lt; int &gt; &amp;heights)</td></tr>
+<tr class="separator:ac9bc199445ac13f4653bf795c24cdf08"><td class="memSeparator" colspan="2">&#160;</td></tr>
 <tr class="memitem:a21faa054d1afffbd2d869a99a54209de" id="r_a21faa054d1afffbd2d869a99a54209de"><td class="memTemplParams" colspan="2">template&lt;std::integral T&gt; </td></tr>
 <tr class="memitem:a21faa054d1afffbd2d869a99a54209de"><td class="memTemplItemLeft" align="right" valign="top">int&#160;</td><td class="memTemplItemRight" valign="bottom"><a class="el" href="#a21faa054d1afffbd2d869a99a54209de">numDigits</a> (T num)</td></tr>
 <tr class="separator:a21faa054d1afffbd2d869a99a54209de"><td class="memSeparator" colspan="2">&#160;</td></tr>
@@ -980,6 +982,31 @@ template&lt;typename T , std::integral I = int&gt; </div>
   </dd>
 </dl>
 <dl class="section return"><dt>Returns</dt><dd>A vector containing the starting indices of all occurrences of 'pat' within 'txt'. </dd></dl>
+
+</div>
+</div>
+<a id="ac9bc199445ac13f4653bf795c24cdf08" name="ac9bc199445ac13f4653bf795c24cdf08"></a>
+<h2 class="memtitle"><span class="permalink"><a href="#ac9bc199445ac13f4653bf795c24cdf08">&#9670;&#160;</a></span>largestRectangleInHistogram()</h2>
+
+<div class="memitem">
+<div class="memproto">
+      <table class="memname">
+        <tr>
+          <td class="memname">int hsc_snippets::largestRectangleInHistogram </td>
+          <td>(</td>
+          <td class="paramtype">const std::vector&lt; int &gt; &amp;</td>          <td class="paramname"><span class="paramname"><em>heights</em></span></td><td>)</td>
+          <td></td>
+        </tr>
+      </table>
+</div><div class="memdoc">
+<p>LeetCode 84: Largest Rectangle in Histogram This function calculates the maximum area of a rectangle that can be formed within a given histogram. Each bar's height is given in the 'heights' vector, where each element represents the height of a bar.</p>
+<dl class="params"><dt>Parameters</dt><dd>
+  <table class="params">
+    <tr><td class="paramname">heights</td><td>A vector of integers where each integer represents the height of a histogram bar. </td></tr>
+  </table>
+  </dd>
+</dl>
+<dl class="section return"><dt>Returns</dt><dd>The maximum area of the rectangle that can be formed in the histogram. </dd></dl>
 
 </div>
 </div>

diff --git a/monotonic__stack_8hpp.html b/monotonic__stack_8hpp.html
@@ -87,20 +87,23 @@ $(function() {
 <code>#include &lt;stack&gt;</code><br />
 <code>#include &lt;functional&gt;</code><br />
 <code>#include &lt;optional&gt;</code><br />
+<code>#include &lt;vector&gt;</code><br />
 </div><div class="textblock"><div class="dynheader">
 Include dependency graph for monotonic_stack.hpp:</div>
 <div class="dyncontent">
 <div class="center"><img src="monotonic__stack_8hpp__incl.png" border="0" usemap="#asrc_2monotonic__stack_8hpp" alt=""/></div>
 <map name="asrc_2monotonic__stack_8hpp" id="asrc_2monotonic__stack_8hpp">
-<area shape="rect" title=" " alt="" coords="89,5,255,31"/>
+<area shape="rect" title=" " alt="" coords="134,5,300,31"/>
 <area shape="rect" title=" " alt="" coords="5,79,77,105"/>
-<area shape="poly" title=" " alt="" coords="151,34,77,74,75,69,148,29"/>
+<area shape="poly" title=" " alt="" coords="188,34,86,75,84,70,186,29"/>
 <area shape="rect" title=" " alt="" coords="101,79,154,105"/>
-<area shape="poly" title=" " alt="" coords="167,33,145,67,141,64,162,30"/>
+<area shape="poly" title=" " alt="" coords="204,34,156,71,153,67,200,29"/>
 <area shape="rect" title=" " alt="" coords="178,79,256,105"/>
-<area shape="poly" title=" " alt="" coords="181,30,204,64,199,67,177,33"/>
+<area shape="poly" title=" " alt="" coords="220,31,220,63,214,63,214,31"/>
 <area shape="rect" title=" " alt="" coords="280,79,346,105"/>
-<area shape="poly" title=" " alt="" coords="197,29,277,69,274,74,194,34"/>
+<area shape="poly" title=" " alt="" coords="235,29,287,68,283,72,232,34"/>
+<area shape="rect" title=" " alt="" coords="370,79,427,105"/>
+<area shape="poly" title=" " alt="" coords="249,29,356,71,354,76,247,34"/>
 </map>
 </div>
 </div>
@@ -130,6 +133,8 @@ Functions</h2></td></tr>
 <tr class="memitem:a58ccbeb569860677c784f504351db1d8" id="r_a58ccbeb569860677c784f504351db1d8"><td class="memTemplParams" colspan="2">template&lt;typename T &gt; </td></tr>
 <tr class="memitem:a58ccbeb569860677c784f504351db1d8"><td class="memTemplItemLeft" align="right" valign="top">std::vector&lt; T &gt;&#160;</td><td class="memTemplItemRight" valign="bottom"><a class="el" href="namespacehsc__snippets.html#a58ccbeb569860677c784f504351db1d8">hsc_snippets::nextGreaterElement</a> (const std::vector&lt; T &gt; &amp;nums, std::function&lt; T()&gt; no_greater)</td></tr>
 <tr class="separator:a58ccbeb569860677c784f504351db1d8"><td class="memSeparator" colspan="2">&#160;</td></tr>
+<tr class="memitem:ac9bc199445ac13f4653bf795c24cdf08" id="r_ac9bc199445ac13f4653bf795c24cdf08"><td class="memItemLeft" align="right" valign="top">int&#160;</td><td class="memItemRight" valign="bottom"><a class="el" href="namespacehsc__snippets.html#ac9bc199445ac13f4653bf795c24cdf08">hsc_snippets::largestRectangleInHistogram</a> (const std::vector&lt; int &gt; &amp;heights)</td></tr>
+<tr class="separator:ac9bc199445ac13f4653bf795c24cdf08"><td class="memSeparator" colspan="2">&#160;</td></tr>
 </table>
 </div><!-- contents -->
 <!-- start footer part -->

diff --git a/namespacemembers.html b/namespacemembers.html
@@ -125,6 +125,7 @@ $(function() {
 
 
 <h3><a id="index_l" name="index_l"></a>- l -</h3><ul>
+<li>largestRectangleInHistogram()&#160;:&#160;<a class="el" href="namespacehsc__snippets.html#ac9bc199445ac13f4653bf795c24cdf08">hsc_snippets</a></li>
 <li>lcm()&#160;:&#160;<a class="el" href="namespacehsc__snippets.html#a9d31a87aa5ed5297257e6daea49a4c72">hsc_snippets</a></li>
 <li>lessThanAll()&#160;:&#160;<a class="el" href="namespacehsc__snippets.html#ac6691641b2d50eca1b2145da55c74f1d">hsc_snippets</a></li>
 <li>lessThanOrEqualToAll()&#160;:&#160;<a class="el" href="namespacehsc__snippets.html#a8f9c656f40560cd6141ff708c5937b89">hsc_snippets</a></li>

diff --git a/namespacemembers_func.html b/namespacemembers_func.html
@@ -125,6 +125,7 @@ $(function() {
 
 
 <h3><a id="index_l" name="index_l"></a>- l -</h3><ul>
+<li>largestRectangleInHistogram()&#160;:&#160;<a class="el" href="namespacehsc__snippets.html#ac9bc199445ac13f4653bf795c24cdf08">hsc_snippets</a></li>
 <li>lcm()&#160;:&#160;<a class="el" href="namespacehsc__snippets.html#a9d31a87aa5ed5297257e6daea49a4c72">hsc_snippets</a></li>
 <li>lessThanAll()&#160;:&#160;<a class="el" href="namespacehsc__snippets.html#ac6691641b2d50eca1b2145da55c74f1d">hsc_snippets</a></li>
 <li>lessThanOrEqualToAll()&#160;:&#160;<a class="el" href="namespacehsc__snippets.html#a8f9c656f40560cd6141ff708c5937b89">hsc_snippets</a></li>
